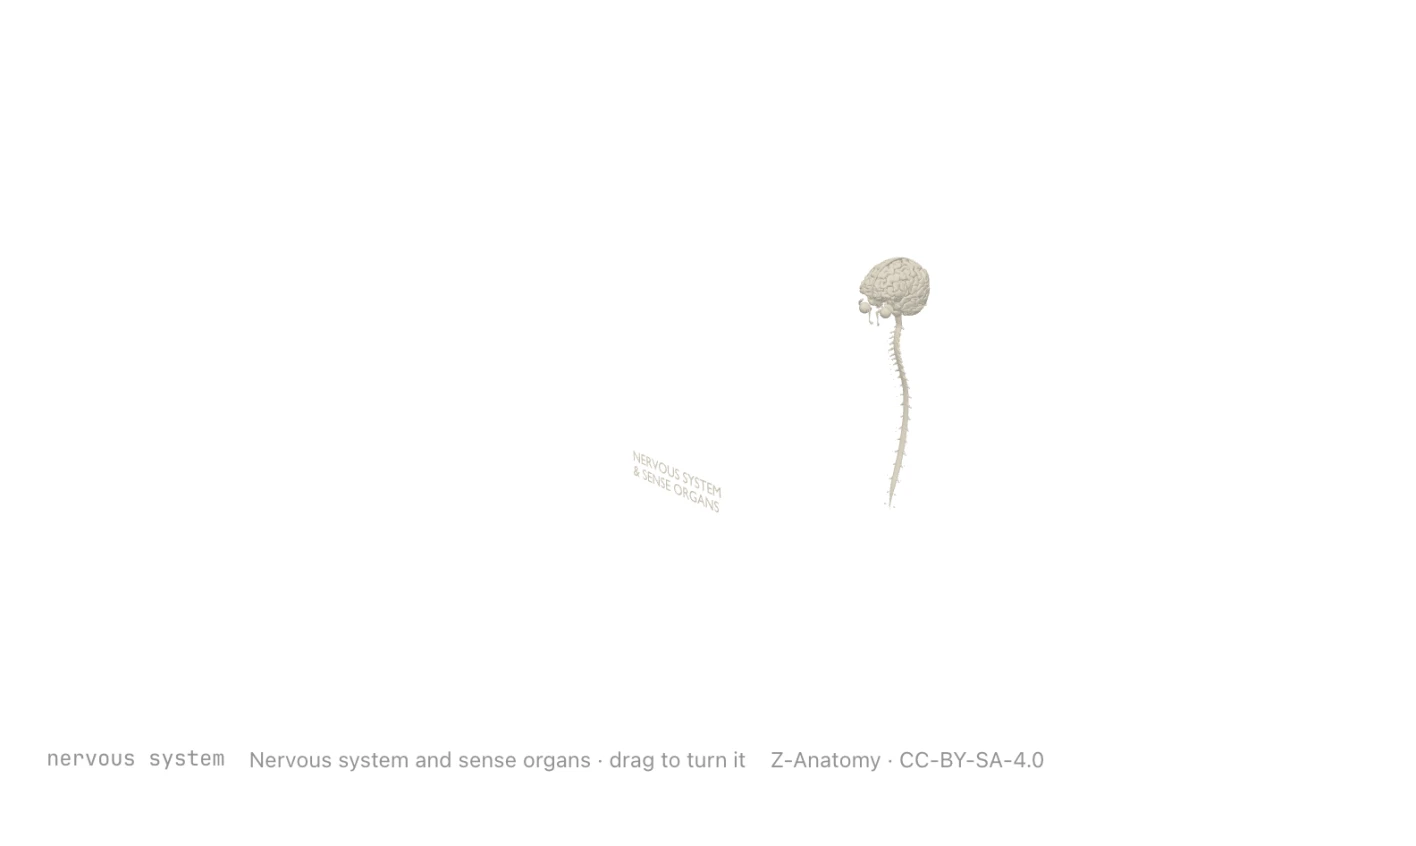
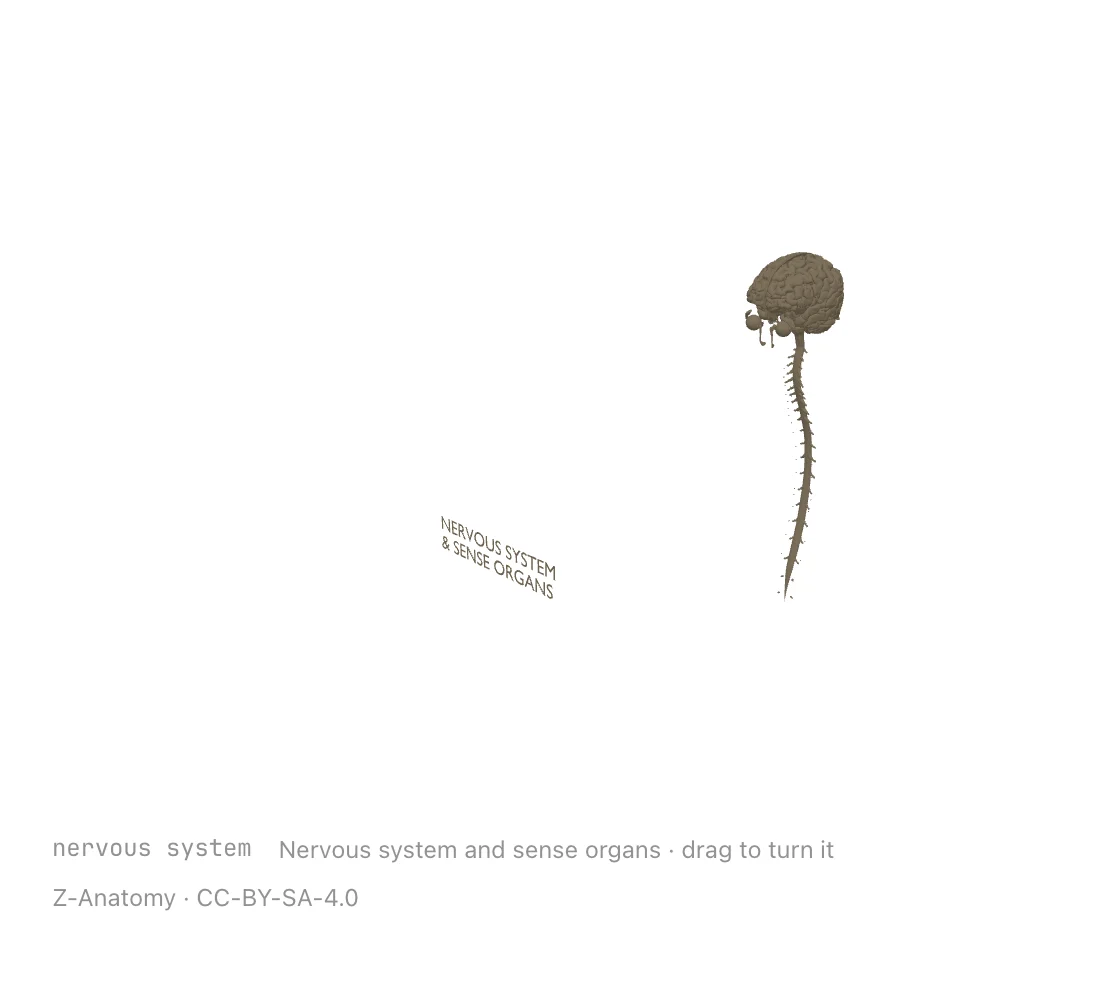
fix(anatomy): the model was overexposed to white, and the hero is blue again
anatomy-viewer
- BONE 0xe0d9c8 -> 0xb3a184 and the lights 1.4 + 1.8 -> 0.62 + 0.9. Lambert multiplies the
  base colour by the light, and in the linear working space three renders in, the old base
  was ~0.75 — so the AMBIENT TERM ALONE put it at 1.05, clipped to pure white, before the
  directional light contributed anything. Every facet not in deep shadow came out the same
  flat white, which is why the models read as smooth lumps with no anatomy in them. The two
  numbers have to move together; lowering only one puts the blob straight back.
- FADED_OPACITY 0.14 -> 0.26. The ghost exists to say WHERE the named structure sits, and at
  14% of a pale colour on a white canvas there was nothing left to see — isolate-and-frame
  lost its second half and the picture became one floating shape.
- The camera offset is normalised. `distance` is the range that fits the subject in the
  vertical field of view, but it was used as three separate components — (0.72, 0.35, 0.72),
  a vector of length 1.077 — so the camera always sat ~8% beyond the fit it had just
  computed, on top of 1.25 padding. Padding is now 1.12.

landing
- Hero art regenerated in blue: cobalt through cornflower into pale cyan, no pink. Mirrored
  before install for the same reason as last time — the glow's mask reaches full strength at
  68% across the image, and the generated colour sits in its left third.
- The figures strip drifts continuously instead of stepping, and hovering slows it to 9px/s
[…]

diff --git a/landing/components/home/FigureCarousel.tsx b/landing/components/home/FigureCarousel.tsx
@@ -1,36 +1,38 @@
 "use client";
 
-import { useCallback, useEffect, useRef } from "react";
+import { useEffect, useRef } from "react";
 
 /**
- * The figures, as one carousel that advances on its own.
+ * The figures, as one strip that drifts by itself.
  *
- * ── WHAT DRIVES IT, AND WHAT STILL DOES NOT ───────────────────────────────────
+ * ── IT DRIFTS, IT DOES NOT STEP ───────────────────────────────────────────────
  *
- * The owner asked for it to move by itself with no scrollbar and no arrows, so the
- * controls are gone and a timer steps it. What is NOT gone is the scroller
- * underneath: the track is still a real overflow container with `scroll-snap-type`,
- * so touch swipe, two-finger swipe and arrow keys all still work, and the timer only
- * calls `scrollBy` on top of that. Hiding a scrollbar is a paint decision; taking the
- * scrolling away with it would leave a phone with no way to look at card nine.
+ * An earlier version held each card still for four seconds and then slid to the next.
+ * The owner asked for continuous left-to-right movement instead, and for hovering to
+ * SLOW it rather than stop it — so there is no dwell and no discrete slide: the strip
+ * moves a little every frame and never stops while the page is visible.
  *
- * ── WHY IT STEPS AND DWELLS INSTEAD OF DRIFTING ───────────────────────────────
+ * That rules out a CSS animation, which is the obvious way to build a marquee.
+ * `animation-play-state` can only run or pause, and changing `animation-duration`
+ * mid-flight restarts the timeline from wherever the new duration puts it, which reads
+ * as a jump. Speed has to be a number that can change smoothly between frames, so the
+ * loop owns it.
  *
- * The obvious reading of "move on its own" is a marquee that slides continuously, and
- * it is the wrong one here. These are figures the section exists to have you LOOK at
- * — an anatomy render, a circuit, a score. Something permanently in motion is
- * something you cannot study. So a card holds still for `DWELL`, slides to the next
- * over about half a second, and holds again.
+ * ── WHAT STILL WORKS UNDERNEATH ───────────────────────────────────────────────
+ *
+ * The track is a real overflow container and the drift is written to `scrollLeft`, so
+ * a swipe on a phone, a two-finger swipe on a trackpad and the arrow keys all still
+ * move it — the scrollbar is only hidden in CSS, not disabled. A hand-scroll is not
+ * fought, either: the loop re-reads the element's own position whenever it disagrees
+ * with the loop's, so a swipe simply moves the strip and the drift carries on from
+ * wherever the finger left it.
  *
  * ── THE SEAM ──────────────────────────────────────────────────────────────────
  *
- * The list is rendered TWICE. Reaching the end of a one-shot list leaves two bad
- * options: a long smooth sweep all the way back, which drags the eye across sixteen
- * cards, or an instant jump, which is a visible flinch. With the list doubled, the
- * step that lands on the first copy of card 0 is followed by a silent, unanimated
- * `scrollTo` back to the real card 0 — the same picture in the same place, so there
- * is nothing to see. The copies are `aria-hidden` and unfocusable; they exist only so
- * the wrap has somewhere to happen.
+ * The list is rendered TWICE and the position wraps by exactly one list's width. At
+ * that point every card on screen is a copy sitting where the original was, so the
+ * subtraction is invisible — no rewind, no jump. The copies are `aria-hidden` and
+ * carry empty alt text, so the strip is still sixteen figures long to a screen reader.
  */
 
 export interface CarouselItem {
@@ -43,90 +45,108 @@ export interface CarouselItem {
   readonly h: number;
 }
 
-/** How long a figure holds still before the track moves on. */
-const DWELL_MS = 4200;
+/** Pixels per second. Slow enough to read a figure as it passes. */
+const DRIFT = 42;
+
+/**
+ * What hovering drops it to. NOT ZERO — the owner's rule is that hover slows the strip
+ * rather than stopping it. Still slow enough to hold a figure in view long enough to
+ * study, and the residual movement is what tells you the strip is alive rather than
+ * broken.
+ */
+const HOVER_DRIFT = 9;
 
 export function FigureCarousel({ items }: { items: readonly CarouselItem[] }) {
   const track = useRef<HTMLUListElement>(null);
-  const timer = useRef<number | null>(null);
-
-  /** Card width plus the gap — measured, because the card width is a `min()` of vw. */
-  const strideOf = useCallback((el: HTMLElement): number => {
-    const card = el.firstElementChild as HTMLElement | null;
-    if (!card) return el.clientWidth * 0.8;
-    const gap = Number.parseFloat(getComputedStyle(el).columnGap || "16") || 16;
-    return card.offsetWidth + gap;
-  }, []);
-
-  const advance = useCallback(() => {
-    const el = track.current;
-    if (!el) return;
-    const stride = strideOf(el);
-    // One list's worth of track. Past this point every card on screen is a copy, so
-    // the position can be rewound by exactly this much and look identical.
-    const lap = stride * items.length;
-
-    if (el.scrollLeft >= lap - 1) {
-      el.scrollTo({ left: el.scrollLeft - lap, behavior: "auto" });
-    }
-    el.scrollBy({ left: stride, behavior: "smooth" });
-  }, [items.length, strideOf]);
-
-  const stop = useCallback(() => {
-    if (timer.current) window.clearInterval(timer.current);
-    timer.current = null;
-  }, []);
-
-  const start = useCallback(() => {
-    stop();
-    timer.current = window.setInterval(advance, DWELL_MS);
-  }, [advance, stop]);
+  const speed = useRef(DRIFT);
 
   useEffect(() => {
-    // 🔴 REDUCED MOTION GETS NO TIMER AT ALL, not a slower one. Someone who has asked
-    // the OS to stop things moving has asked for exactly that; the track is still a
-    // scroller, so the figures remain reachable by hand.
-    const still = window.matchMedia?.("(prefers-reduced-motion: reduce)");
-    if (still?.matches) return;
+    const el = track.current;
+    if (!el) return;
 
-    start();
-    // Pausing while the page is in a background tab keeps the position honest: the
-    // browser throttles the timer but not evenly, and coming back to a track that had
-    // silently raced through nine cards reads as a glitch.
-    const onVisibility = () => (document.hidden ? stop() : start());
+    // 🔴 REDUCED MOTION GETS NO LOOP AT ALL, not a slower one. Someone who asked the OS
+    // to stop things moving asked for exactly that; the strip stays a scroller, so every
+    // figure is still reachable by hand.
+    if (window.matchMedia?.("(prefers-reduced-motion: reduce)").matches) return;
+
+    let frame = 0;
+    let last = 0;
+    // 🔴 A FLOAT ALONGSIDE `scrollLeft`, BECAUSE THE ELEMENT ROUNDS. At 42px/s a frame is
+    // worth 0.7px; writing that back and re-reading it loses the fraction every time, and
+    // the strip either crawls at the wrong speed or never moves at all. The float is the
+    // real position and `scrollLeft` is where it gets drawn.
+    let pos = el.scrollLeft;
+
+    const step = (now: number) => {
+      frame = requestAnimationFrame(step);
+      if (!last) {
+        last = now;
+        return;
+      }
+      // Clamped, so returning to a backgrounded tab does not apply one enormous delta.
+      const dt = Math.min((now - last) / 1000, 0.05);
+      last = now;
+
+      // If the element and the loop disagree, a hand did it — take the hand's answer.
+      if (Math.abs(el.scrollLeft - pos) > 1.5) pos = el.scrollLeft;
+
+      // One list's width: card + gap, times the number of real cards. Measured rather
+      // than assumed, because the card width is a `min()` of vw and the gap is a clamp.
+      const card = el.firstElementChild as HTMLElement | null;
+      if (!card) return;
+      const gap = Number.parseFloat(getComputedStyle(el).columnGap || "16") || 16;
+      const lap = (card.offsetWidth + gap) * items.length;
+
+      pos += speed.current * dt;
+      if (pos >= lap) pos -= lap;
+      el.scrollLeft = pos;
+    };
+
+    frame = requestAnimationFrame(step);
+
+    // A backgrounded tab throttles rAF unevenly; resetting `last` on return stops the
+    // first frame back from carrying a multi-second delta.
+    const onVisibility = () => {
+      last = 0;
+    };
     document.addEventListener("visibilitychange", onVisibility);
     return () => {
-      stop();
+      cancelAnimationFrame(frame);
       document.removeEventListener("visibilitychange", onVisibility);
     };
-  }, [start, stop]);
+  }, [items.length]);
+
+  const slow = () => {
+    speed.current = HOVER_DRIFT;
+  };
+  const normal = () => {
+    speed.current = DRIFT;
+  };
 
   return (
-    // Hovering, or tabbing in, holds whatever is on screen — the one thing a reader
-    // needs when a moving strip shows them something they want to read.
     <div
       className="carou"
-      onMouseEnter={stop}
-      onMouseLeave={start}
-      onFocusCapture={stop}
-      onBlurCapture={start}
+      onMouseEnter={slow}
+      onMouseLeave={normal}
+      onFocusCapture={slow}
+      onBlurCapture={normal}
     >
       <ul
         className="carou-track"
         ref={track}
         tabIndex={0}
         aria-label="Figures Nemesis has drawn"
-        // A scroller the arrow keys drive is a listbox in everything but name;
-        // `group` plus the roledescription is what tells a screen reader that moving
-        // through it is expected rather than accidental.
+        // A scroller the arrow keys drive is a listbox in everything but name; `group`
+        // plus the roledescription is what tells a screen reader that moving through it
+        // is expected rather than accidental.
         role="group"
         aria-roledescription="carousel"
       >
         {items.map((item, i) => (
           <Card item={item} index={i} key={item.id} total={items.length} eager={i < 2} />
         ))}
-        {/* The seam copy. See the note at the top: present so the wrap has somewhere
-            to happen, hidden from assistive tech so the list is still sixteen long. */}
+        {/* The seam copy — see the note at the top. Present so the wrap has somewhere to
+            happen, hidden from assistive tech so the list is still sixteen long. */}
         {items.map((item) => (
           <Card item={item} copy key={`copy-${item.id}`} />
         ))}
@@ -156,9 +176,9 @@ function Card({
       role={copy ? "presentation" : "group"}
       aria-roledescription={copy ? undefined : "slide"}
     >
-      {/* <picture> because every figure ships a light and a dark file and picks
-          between them on prefers-color-scheme, the convention the rest of the site
-          uses. They are already WebP and already sized. */}
+      {/* <picture> because every figure ships a light and a dark file and picks between
+          them on prefers-color-scheme, the convention the rest of the site uses. They
+          are already WebP and already sized. */}
       <picture>
         <source
           media="(prefers-color-scheme: dark)"

diff --git a/apps/web/components/workspace/learn/anatomy-viewer.tsx b/apps/web/components/workspace/learn/anatomy-viewer.tsx
@@ -25,9 +25,33 @@ import { anatomyCredit } from "@/lib/learn/anatomy-licence";
 
 const HEIGHT = 380;
 
-/** The atlas's own ivory, near enough; a bone chart is one of the few theme-independent objects. */
-const BONE = 0xe0d9c8;
-const FADED_OPACITY = 0.14;
+/**
+ * The atlas's own ivory, darkened — and the darkening is a fix, not a preference.
+ *
+ * 🔴 THIS USED TO BE 0xe0d9c8 AND IT RENDERED AS A FEATURELESS WHITE BLOB. Lambert shading
+ * multiplies the base colour by the light, and the ambient term alone was 1.4. In the linear
+ * working space three renders in, 0xe0d9c8 is about 0.75, so 0.75 x 1.4 = 1.05 — over 1.0, i.e.
+ * clipped to pure white, BEFORE the directional light added anything at all. Every facet that was
+ * not in deep shadow came out the same flat white, which is why the models read as smooth lumps
+ * with no anatomy in them rather than as structures.
+ *
+ * Two numbers have to move together to fix that, and moving only one puts it straight back:
+ * the base has to sit low enough that the brightest facet lands under 1.0, and the lights have to
+ * sum to something that leaves a range rather than saturating. At 0.45 linear against a 0.62 +
+ * 0.9 = 1.52 ceiling, the lit side reaches ~0.85 sRGB and the shadowed side ~0.57 — a real
+ * gradient across the surface, which is the only thing carrying the form.
+ *
+ * Still theme-independent: a bone chart is one of the few objects that looks wrong inverted.
+ */
+const BONE = 0xb3a184;
+
+/**
+ * 🔴 0.14 WAS INVISIBLE. The ghost exists to say WHERE the named structure sits — a ventricle with
+ * no heart around it is a bean. At 14% of a pale colour against a white canvas there was nothing
+ * left to see, so the isolate-and-frame move lost its second half and the picture became one
+ * floating shape. High enough to read as context, low enough not to compete with the subject.
+ */
+const FADED_OPACITY = 0.26;
 
 export function AnatomyViewer({ visual }: { visual: AnatomyVisual }) {
   const frame = useRef<HTMLDivElement | null>(null);
@@ -136,12 +160,23 @@ export function AnatomyViewer({ visual }: { visual: AnatomyVisual }) {
         else box.setFromObject(gltf.scene);
         const centre = box.getCenter(new three.Vector3());
         const sphere = box.getBoundingSphere(new three.Sphere());
-        const distance = Math.max(0.05, (sphere.radius / Math.tan((camera.fov * Math.PI) / 360)) * 1.25);
-        camera.position.set(centre.x + distance * 0.72, centre.y + distance * 0.35, centre.z + distance * 0.72);
+        // 🔴 THE OFFSET IS NORMALISED, AND IT WAS NOT. `distance` is the range that fits the
+        // subject in the vertical field of view, but it was then used as three separate
+        // components — (0.72, 0.35, 0.72) — and that vector is 1.077 long, not 1. So the camera
+        // always sat ~8% further back than the fit it had just computed, on top of a 1.25 padding
+        // factor, and the subject came out noticeably small in a large empty frame. Scaling a unit
+        // direction makes the number mean what it says, and the padding can then be the modest
+        // margin it was meant to be.
+        const distance = Math.max(0.05, (sphere.radius / Math.tan((camera.fov * Math.PI) / 360)) * 1.12);
+        const eye = new three.Vector3(0.72, 0.35, 0.72).normalize().multiplyScalar(distance);
+        camera.position.copy(centre).add(eye);
         camera.lookAt(centre);
 
-        scene.add(new three.AmbientLight(0xffffff, 1.4));
-        const sun = new three.DirectionalLight(0xffffff, 1.8);
+        // 🔴 THESE TWO SUM TO THE EXPOSURE, AND THEY WERE 1.4 + 1.8. See the note on BONE: at
+        // those levels the surface saturates and the shading that describes the shape is thrown
+        // away. Raising either one back without darkening BONE restores the white blob.
+        scene.add(new three.AmbientLight(0xffffff, 0.62));
+        const sun = new three.DirectionalLight(0xffffff, 0.9);
         sun.position.set(2, 4, 3);
         scene.add(sun);
 

diff --git a/landing/components/home/Features.tsx b/landing/components/home/Features.tsx
@@ -75,7 +75,7 @@ interface Band {
  * To re-capture after a renderer change, run the web app and `node cardshot4.mjs` / `anat.mjs`.
  */
 const FIGURES: readonly CarouselItem[] = [
-  { id: "heart", file: "heart", label: "Anatomy, in 3D", w: 1416, h: 846,
+  { id: "heart", file: "heart", label: "Anatomy, in 3D", w: 1096, h: 946,
     alt: "The left ventricle picked out of a three-dimensional cardiovascular system, the rest of the vessels ghosted around it." },
   { id: "macromolecule", file: "macromolecule", label: "Protein, in 3D", w: 1416, h: 1044,
     alt: "Haemoglobin from the Protein Data Bank, its four subunits each in a different colour." },
@@ -85,7 +85,7 @@ const FIGURES: readonly CarouselItem[] = [
     alt: "A plot of plasma concentration against time at two doses, with labelled axes and a legend." },
   { id: "structure", file: "structure", label: "Molecule", w: 1416, h: 1309,
     alt: "The structure of acetylsalicylic acid, drawn from its SMILES string." },
-  { id: "nervous", file: "nervous", label: "Nervous system", w: 1416, h: 846,
+  { id: "nervous", file: "nervous", label: "Nervous system", w: 1096, h: 992,
     alt: "The nervous system and sense organs as one continuous three-dimensional model." },
   { id: "score", file: "score", label: "Music", w: 1416, h: 612,
     alt: "The opening phrase of Ode to Joy, engraved on a stave." },
@@ -95,7 +95,7 @@ const FIGURES: readonly CarouselItem[] = [
     alt: "A 3-4-5 right triangle with its three angles marked and its sides labelled." },
   { id: "vectors", file: "vectors", label: "Force diagram", w: 1416, h: 760,
     alt: "A free body diagram of a block on a thirty degree incline, with weight, normal force and friction." },
-  { id: "skeleton", file: "skeleton", label: "Skeleton", w: 1416, h: 846,
+  { id: "skeleton", file: "skeleton", label: "Skeleton", w: 1096, h: 946,
     alt: "A three-dimensional skeleton with the femur picked out." },
   { id: "relationship", file: "relationship", label: "Causal chain", w: 1416, h: 1042,
     alt: "A causal chain from action potential through calcium release to contraction." },

diff --git a/landing/app/art.css b/landing/app/art.css
@@ -409,9 +409,12 @@
    thumbnails you scrolled past. As a track you meet them one at a time, and the
    3D ones lead.
 
-   The scroller is the platform's, not a JS slider: `scroll-snap-type` plus
-   `overflow-x` gives touch swipe, trackpad swipe, a scrollbar, arrow keys and iOS
-   momentum for free. See FigureCarousel.tsx. */
+   It drifts on its own, left to right, and never comes to rest — hovering slows it
+   rather than stopping it. The movement is written to `scrollLeft` from a rAF loop
+   rather than run as a CSS animation, because the speed has to change smoothly on
+   hover and `animation-play-state` can only run or pause. The element stays a real
+   `overflow-x` scroller underneath, so swipe, trackpad and arrow keys still work and
+   only the scrollbar is hidden. See FigureCarousel.tsx. */
 .carou {
   display: flex;
   flex-direction: column;
@@ -425,7 +428,10 @@
   list-style: none;
   overflow-x: auto;
   overscroll-behavior-x: contain;
-  scroll-snap-type: x mandatory;
+  /* 🔴 NO `scroll-snap-type`. The strip drifts continuously now, and snapping fights
+     that directly: every fractional scroll the loop writes gets pulled back to the
+     nearest card, so the movement turns into a stutter or stops dead. Snapping is right
+     for a carousel you page through and wrong for one that never comes to rest. */
   /* The track is focusable so the arrow keys work; a focus ring on a 1100px-wide
      scroller is ugly, so it gets a soft one that follows the cards' radius. */
   border-radius: clamp(12px, 1.4vw, 18px);
@@ -450,10 +456,6 @@
      never see one card whole. `vw` has no such ambiguity. */
   flex: 0 0 auto;
   width: min(460px, 78vw);
-  /* `start`, not `center`: with several cards in view, centre-snapping puts card two
-     under the middle at scrollLeft 0, so the track opens on the wrong card. See the
-     note in FigureCarousel.tsx. */
-  scroll-snap-align: start;
   display: flex;
   flex-direction: column;
   gap: 9px;

diff --git a/landing/components/home/art-blur.ts b/landing/components/home/art-blur.ts
@@ -13,7 +13,7 @@
  */
 
 export const HERO_BLUR =
[2 lines of base64/hex data omitted]
 
 export const LEARN_BLUR =
[1 lines of base64/hex data omitted]
